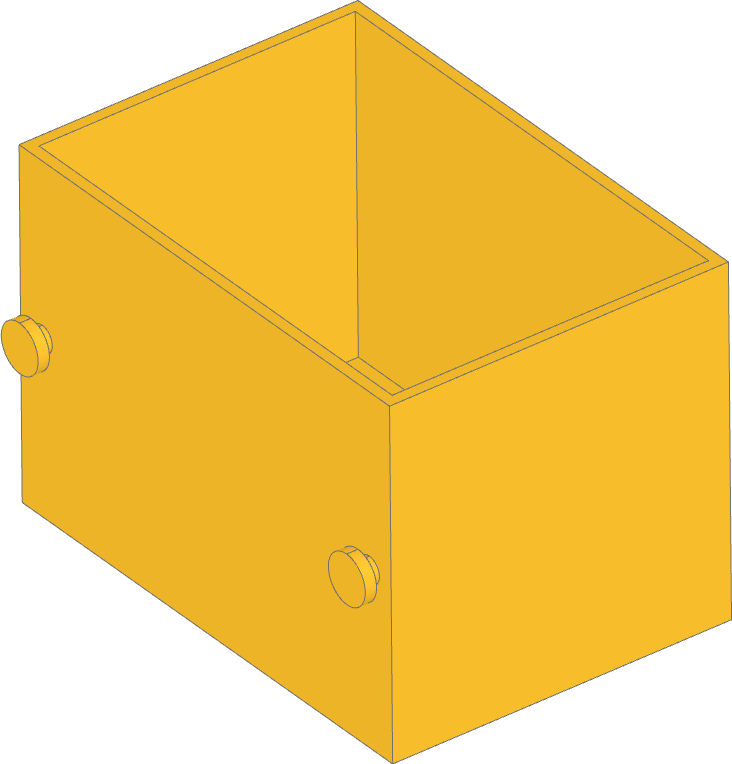
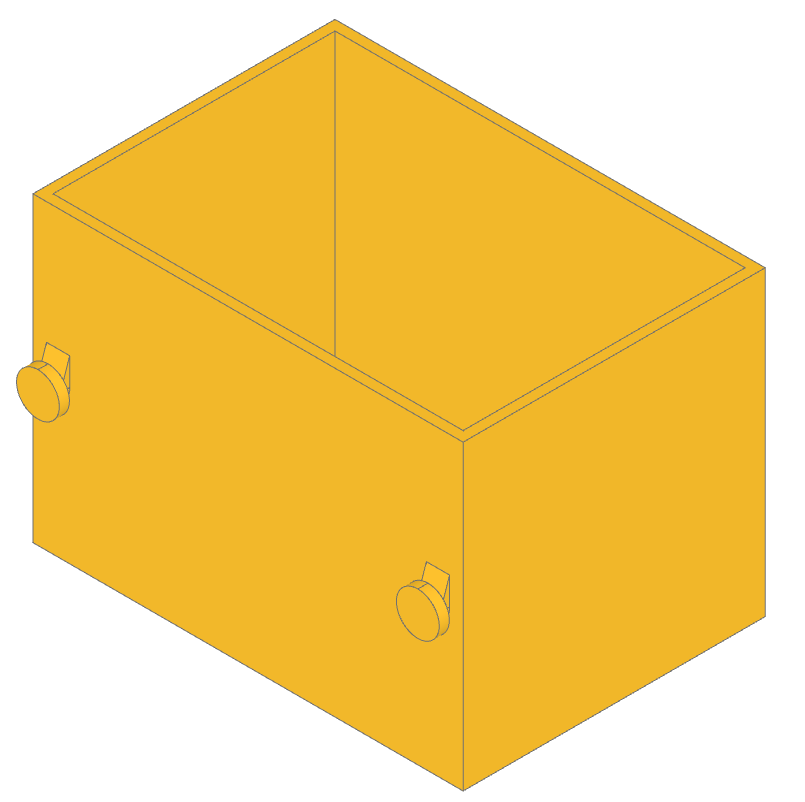
Improved support for cylinders
Photos of results.

diff --git a/pegboard.py b/pegboard.py
@@ -1,5 +1,6 @@
 from build123d import *
 from ocp_vscode import show
+import math
 
 sep_between_little_circle = 70.85 # Edge to Edge distance between small circle part of pegboard
 bigcircle_dia = 8.5               # Diameter of big circles on pegboard
@@ -28,6 +29,13 @@ with BuildPart() as holder:
 
     with Locations(top_face2):
         Cylinder(radius=bigcircle_dia / 2, height=2, align=(Align.CENTER, Align.CENTER, Align.MIN))
+
+    for cyl in [cyl1, cyl2]:
+        pln = Plane(cyl.faces().sort_by(Axis.Y)[0])
+        tri_pln = Plane(pln.origin + (0, 1.5, little_dia / 2), x_dir=(0,1,0), y_dir=(0,0,1))
+        with BuildSketch(tri_pln):
+            Triangle(a=2, b=6, c=math.sqrt(2**2 + 6**2))
+        extrude(amount=little_dia / 2, both=True)
 
 export_stl(holder.part, "box.stl")
 show(holder)

diff --git a/README.md b/README.md
@@ -1,8 +1,14 @@
 # Pegboard Holders
 
-3D printable pegboard holders for Vonhaus metal pegboard
+3D printable pegboard holders for Vonhaus metal pegboard.
 
-![3D Printed pegboard box](imgs/box.png)
+Printed with: 0.20mm layer height, with normal support.
+
+![3D Printed pegboard box CAD design](imgs/box.png)
+
+![Box after printing](imgs/1.jpg)
+
+![Box attached to pegboard](imgs/2.jpg)
 
 ## Setup
 
